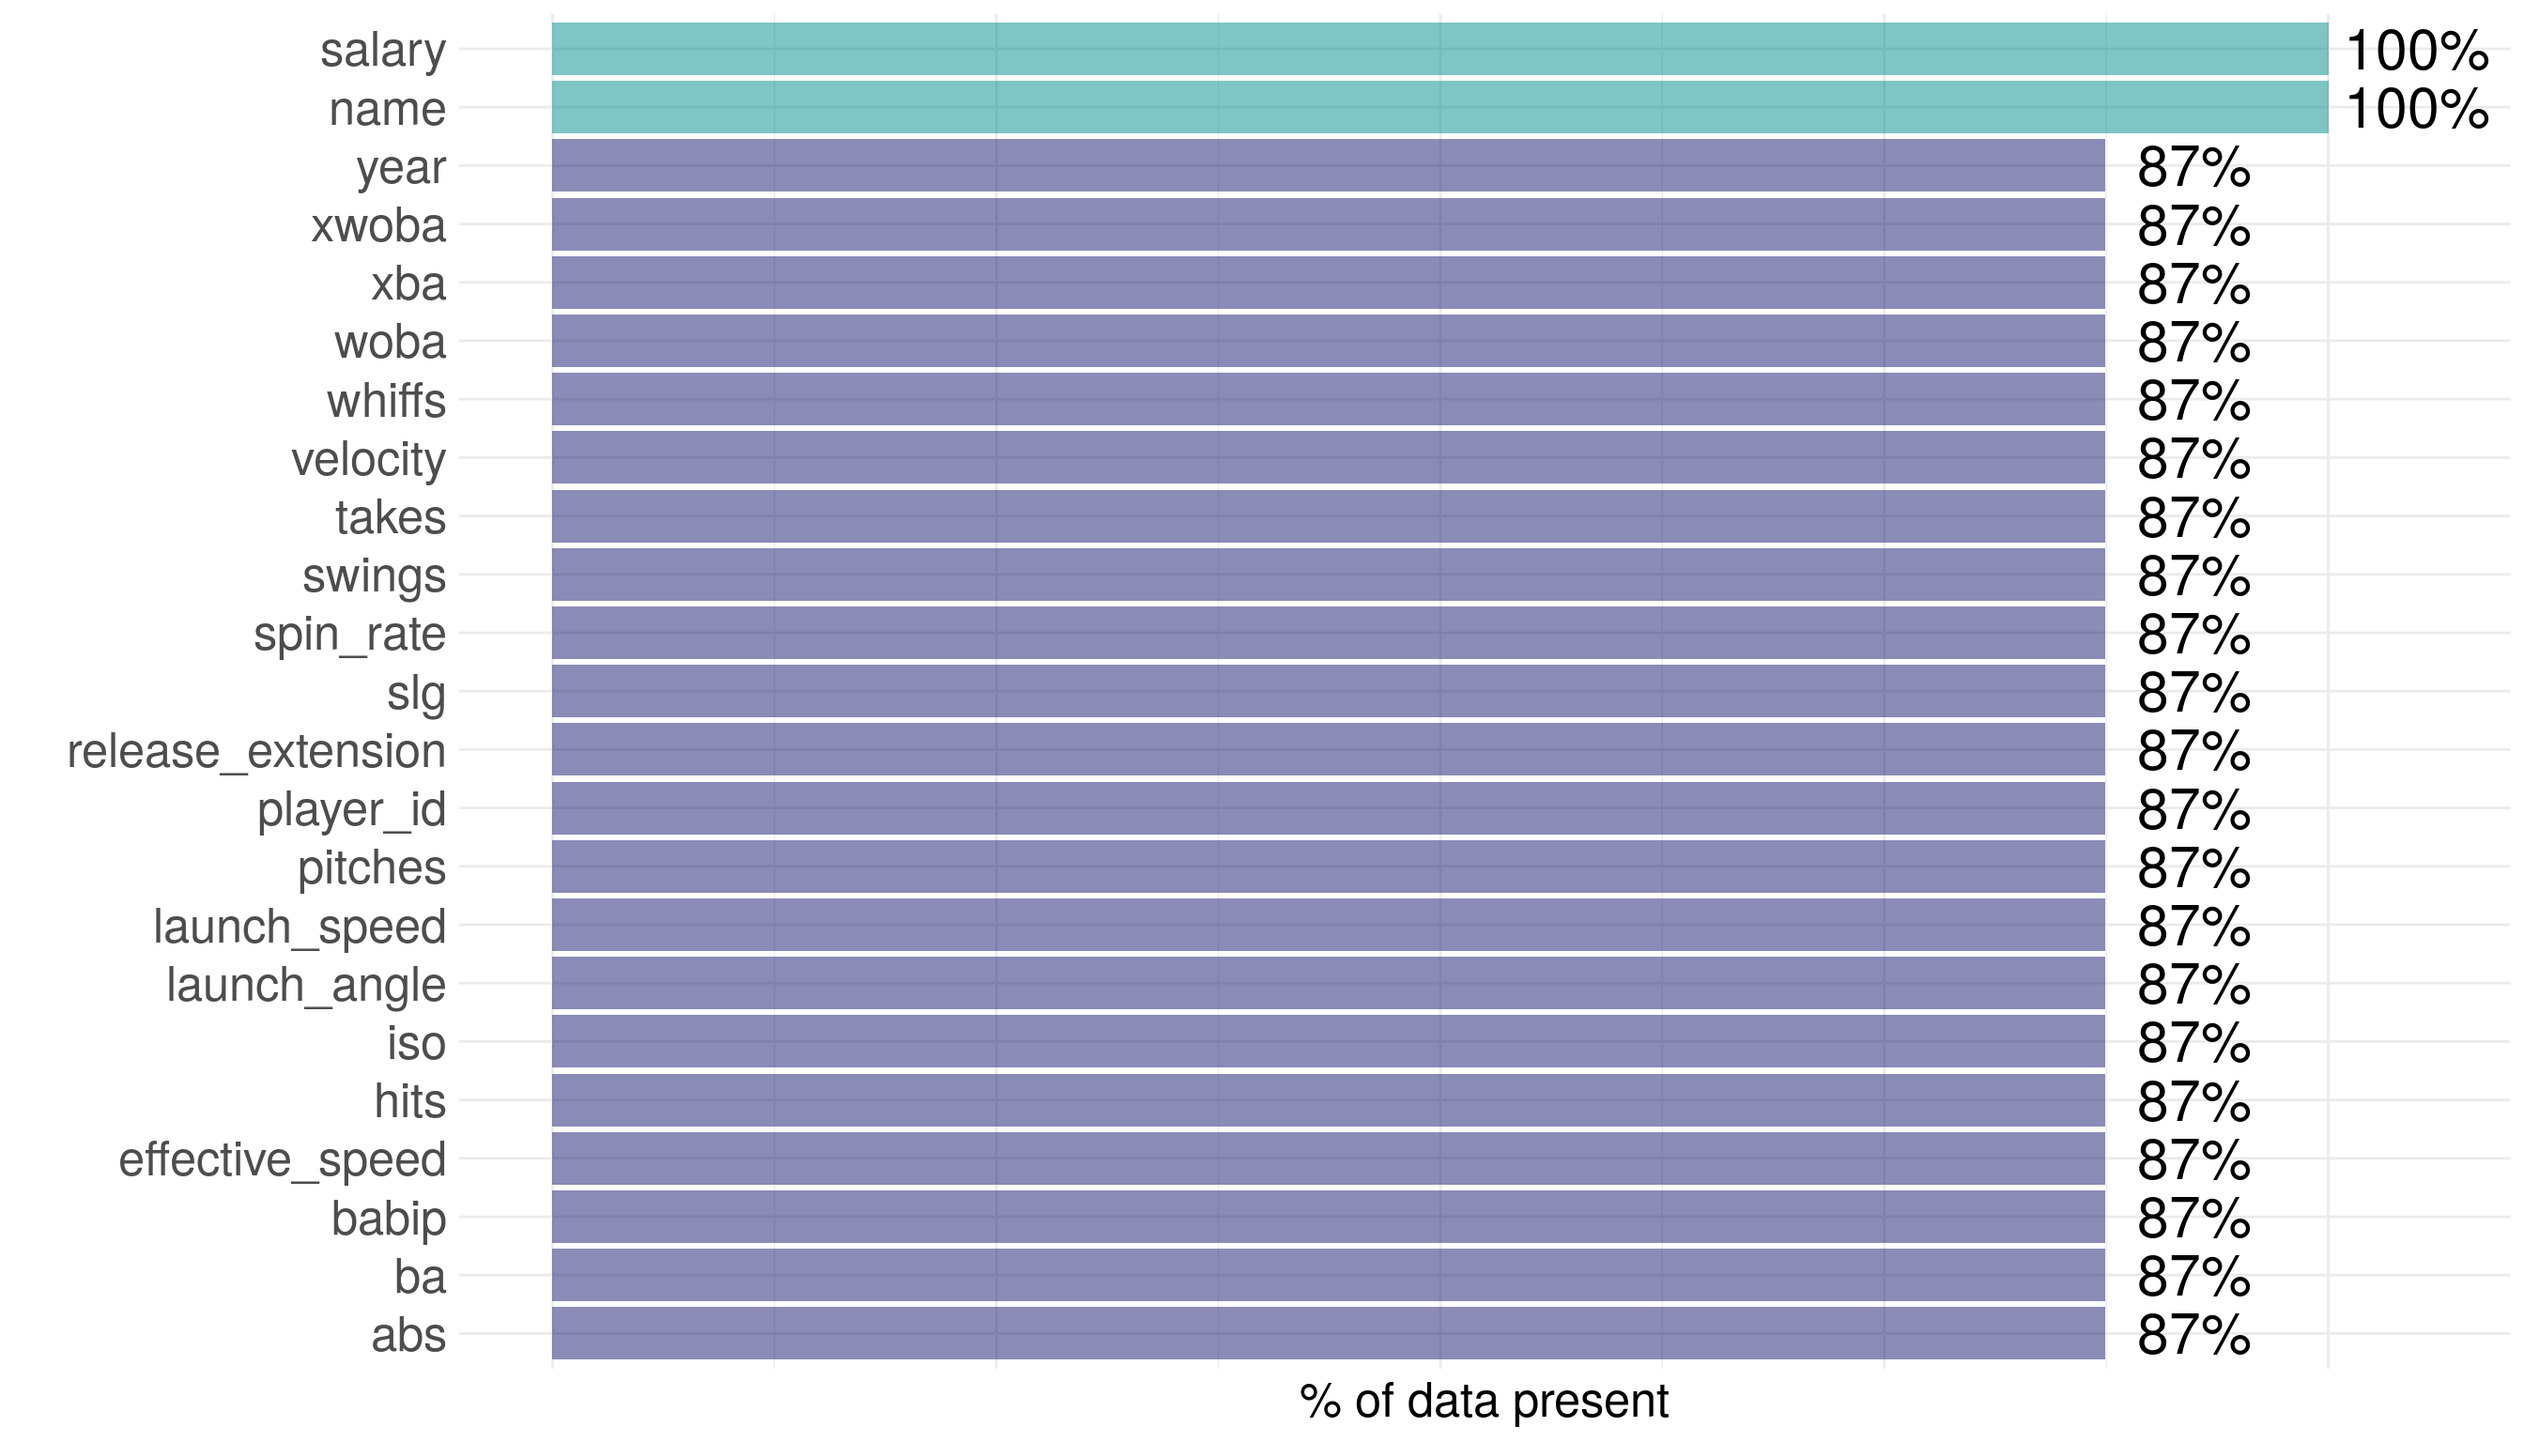
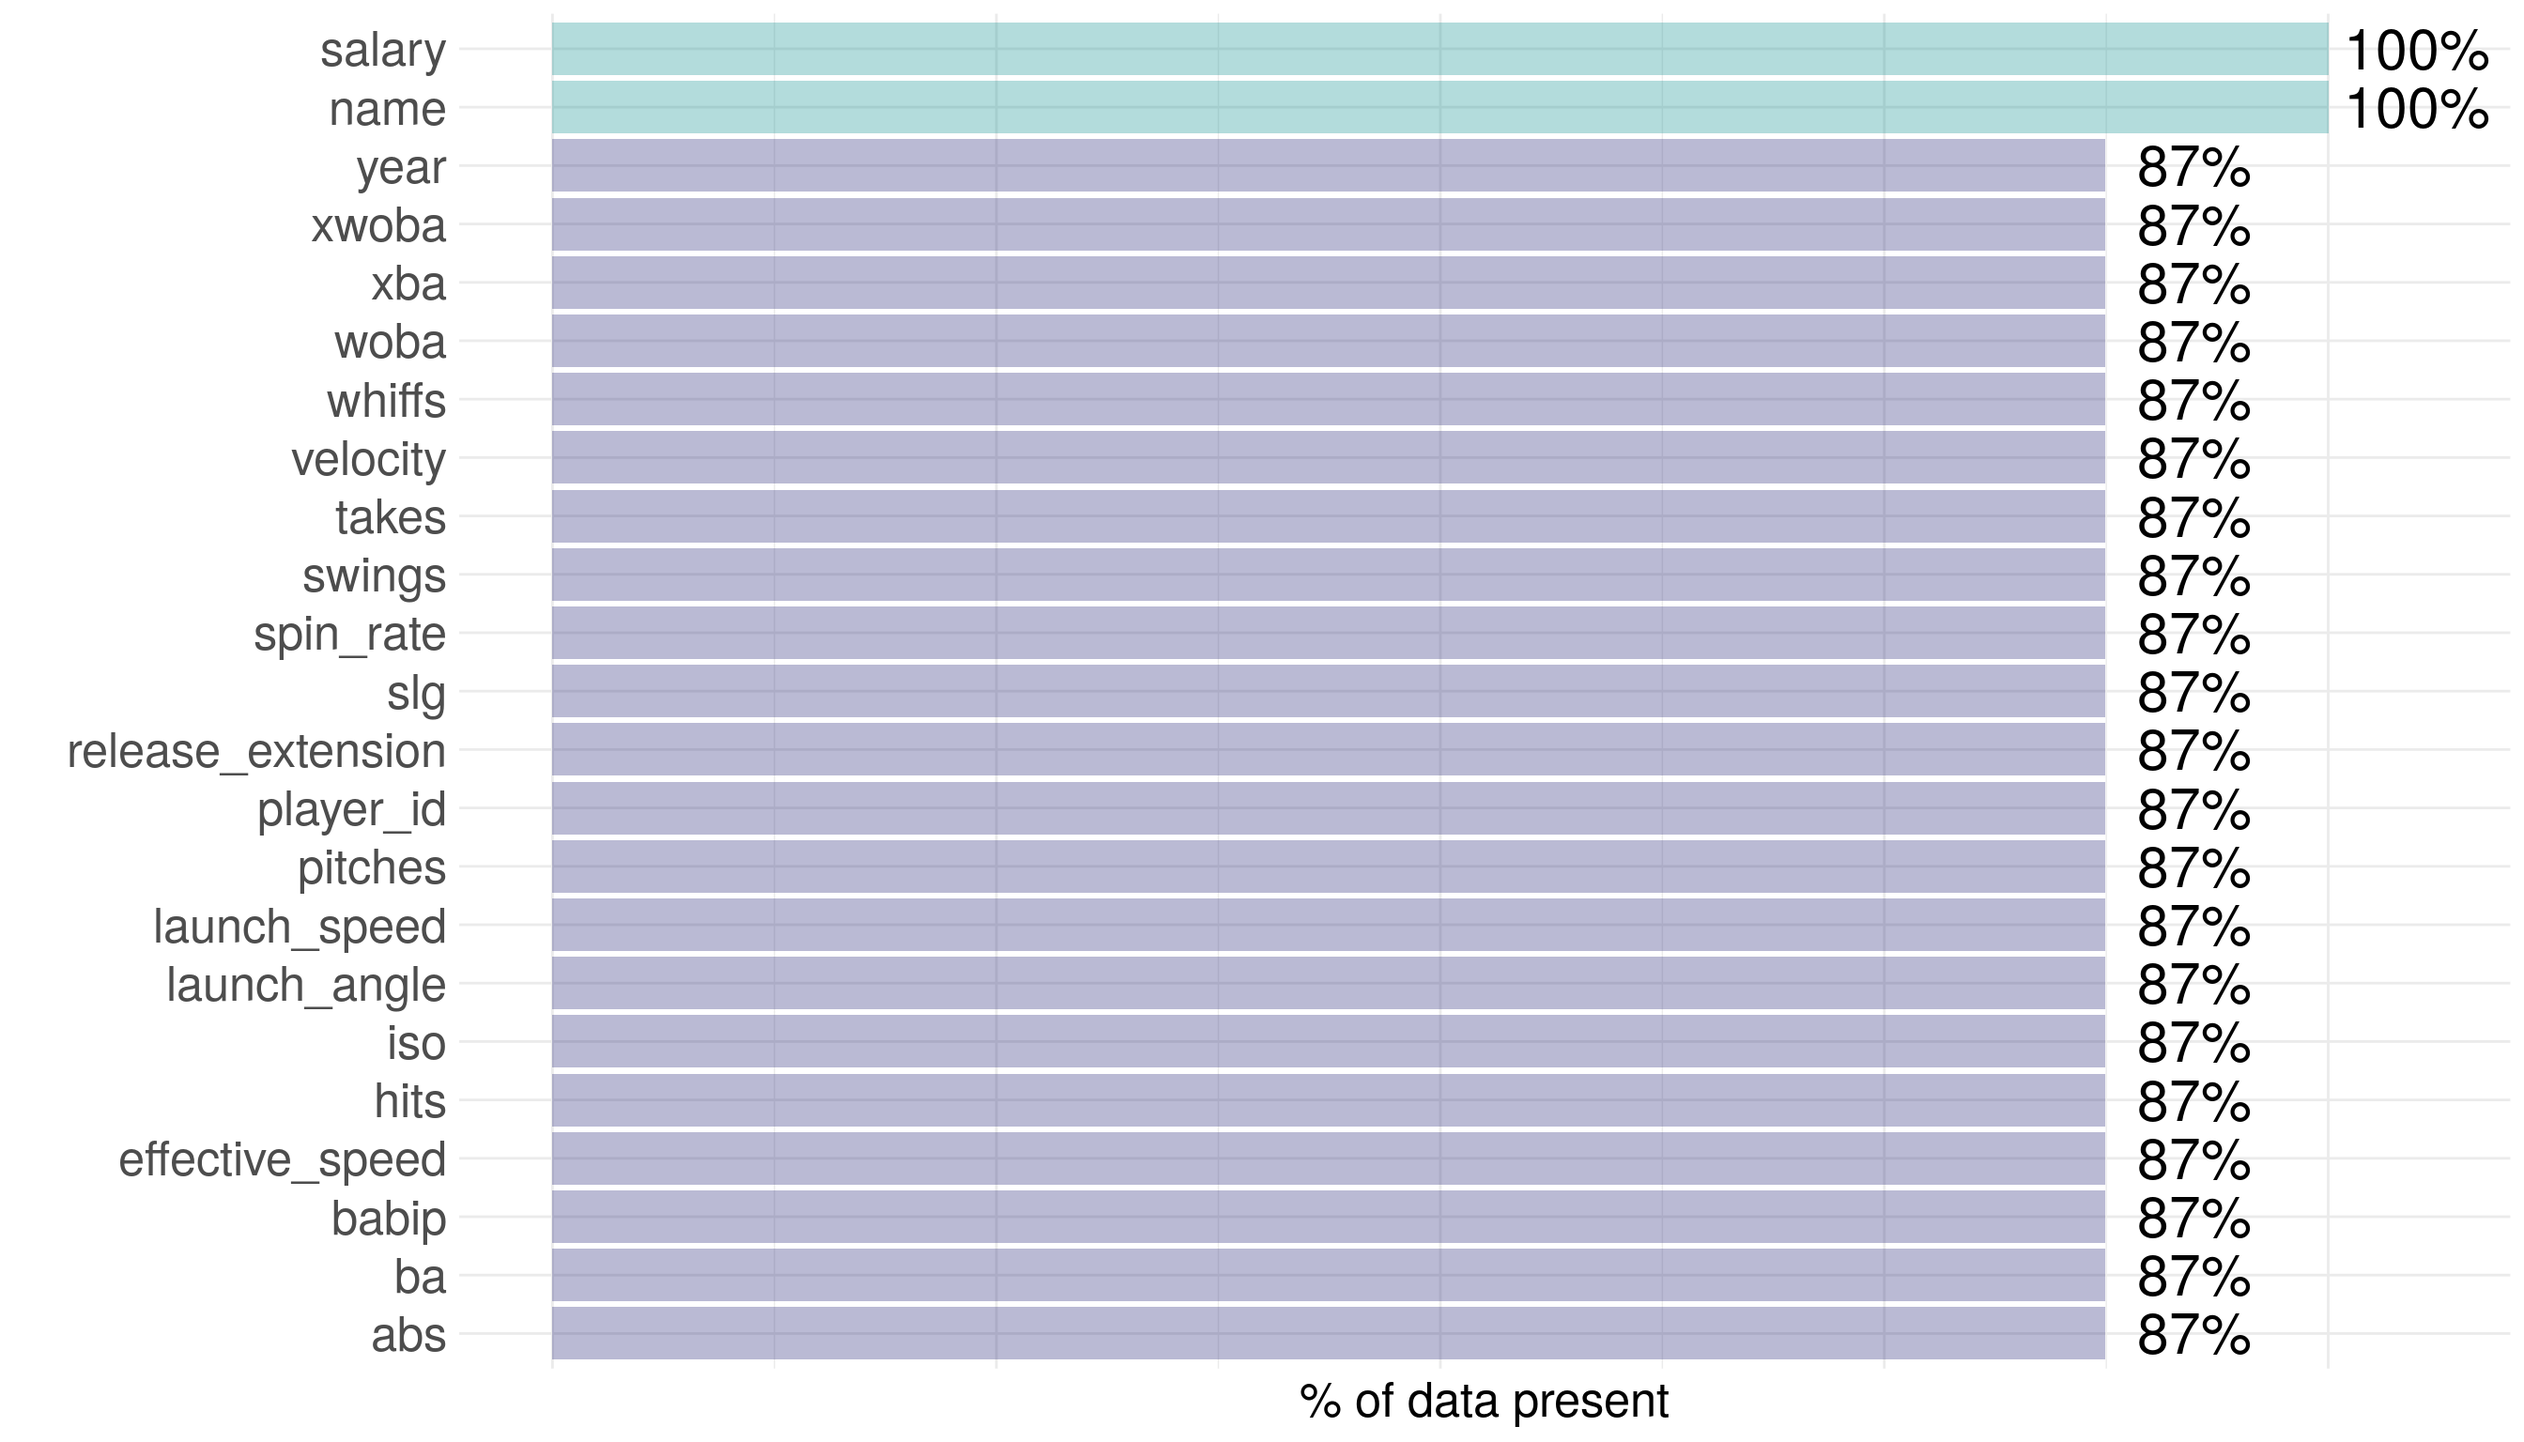
alpha tweak

diff --git a/README.md b/README.md
@@ -58,7 +58,7 @@ head(pitchR, 3)
 #> #   whiffs <dbl>, swings <dbl>, takes <dbl>, release_extension <dbl>
 ```
 
-Here’s a breakdown of how much missing data we have by variable. We
+Here is a breakdown of how much missing data we have by variable. We
 opted to keep observations with missing values in order to keep a full
 version of the salary data.
 
